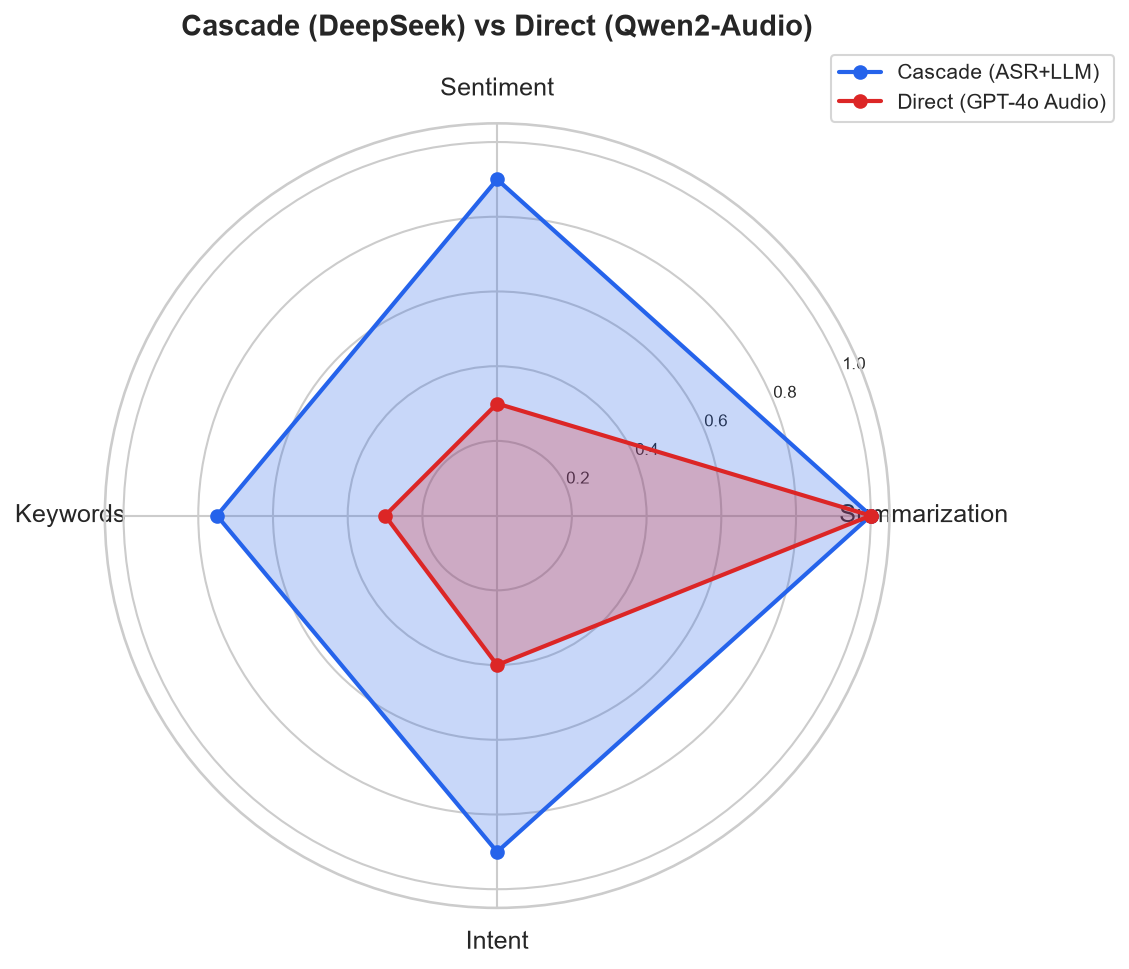
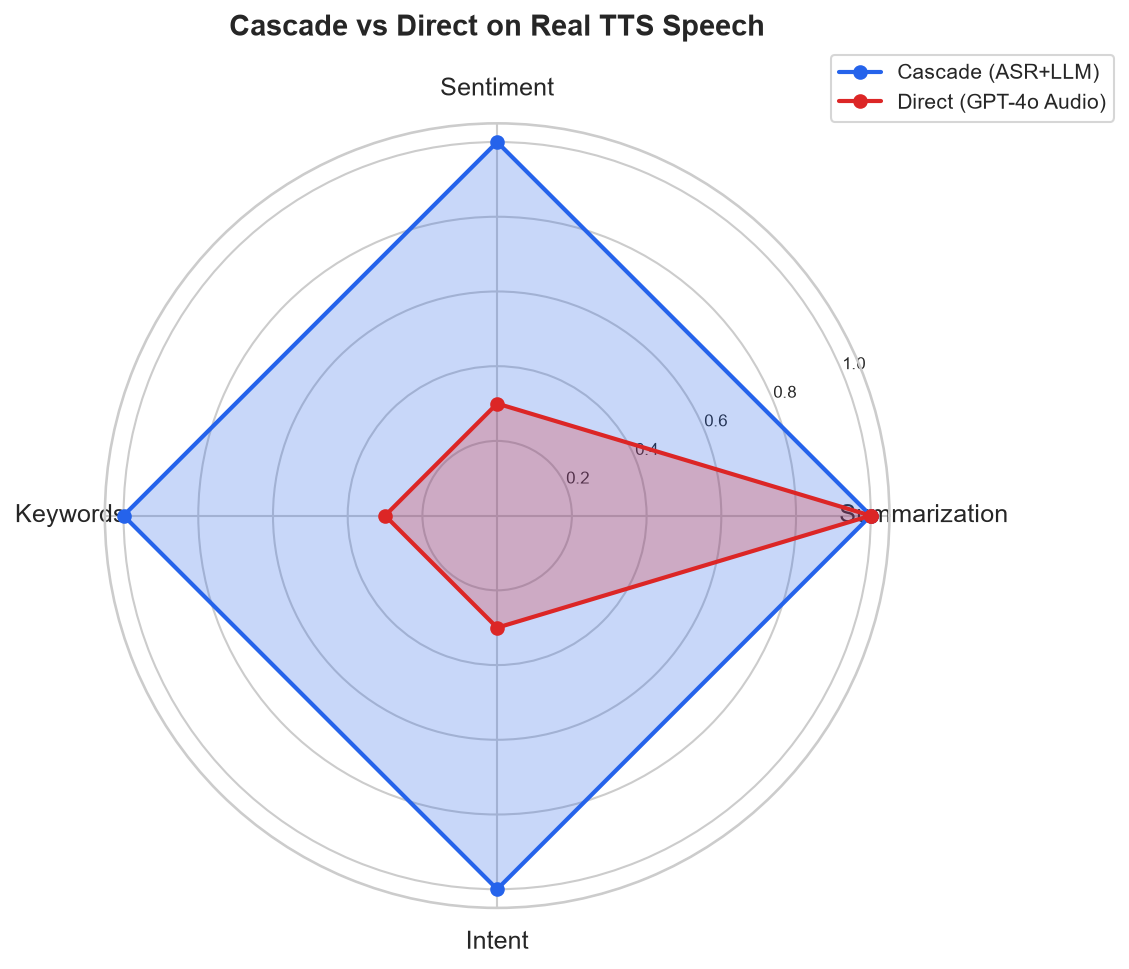
feat: TTS benchmark — Cascade 16.9s vs Direct 726s, 3 charts

diff --git a/generate_speech.py b/generate_speech.py
@@ -1,0 +1,102 @@
+"""Generate 20 realistic English speech samples using Microsoft Edge TTS (free, no VPN needed).
+
+Each sample has a known transcript → perfect for benchmark evaluation.
+"""
+import asyncio
+import json
+import numpy as np
+import soundfile as sf
+from pathlib import Path
+from src.config import PROCESSED_DIR
+
+# 20 diverse TED-style talks across 5 categories
+SAMPLES = [
+    # Technology
+    ("AI is transforming healthcare through faster diagnosis and personalized treatment plans. Machine learning models can now detect diseases from medical images with accuracy rivaling human doctors, potentially saving millions of lives each year. However, we must ensure these systems are trained on diverse data to avoid bias.", "en-US-AriaNeural", "tech_ai_healthcare"),
+    ("Quantum computing represents a fundamental shift in how we process information. Unlike classical bits that are either zero or one, quantum bits can exist in multiple states simultaneously. This property, called superposition, allows quantum computers to solve certain problems exponentially faster than any classical computer ever could.", "en-US-GuyNeural", "tech_quantum"),
+    ("The future of education lies in personalized learning powered by artificial intelligence. Every student learns differently — some are visual learners, others prefer reading, and some learn best through hands-on practice. AI tutors can adapt to each student's unique learning style in real time.", "en-GB-SoniaNeural", "tech_education"),
+    ("Blockchain technology extends far beyond cryptocurrency. Its ability to create tamper-proof, decentralized records has applications in supply chain management, digital identity verification, and even voting systems. The key innovation is trust without a central authority.", "en-US-JennyNeural", "tech_blockchain"),
+
+    # Science
+    ("Climate change is the defining challenge of our generation. Global temperatures have risen by approximately one point two degrees Celsius since pre-industrial times, and we are already seeing the effects: more frequent extreme weather events, rising sea levels, and disrupted ecosystems. The scientific consensus is clear — we must act now.", "en-GB-RyanNeural", "science_climate"),
+    ("The human brain contains approximately eighty-six billion neurons, each connected to thousands of others, forming a network of unimaginable complexity. Despite decades of research, we are only beginning to understand how this three-pound organ generates consciousness, memory, and emotion.", "en-US-ChristopherNeural", "science_brain"),
+    ("Space exploration has entered a new golden age. Private companies are developing reusable rockets that dramatically reduce the cost of reaching orbit, while NASA plans to return humans to the moon and eventually send them to Mars. The James Webb Space Telescope is already revealing secrets of the early universe.", "en-US-EricNeural", "science_space"),
+    ("CRISPR gene editing technology gives scientists the ability to modify DNA with unprecedented precision. This breakthrough has enormous potential for treating genetic diseases, developing drought-resistant crops, and even fighting cancer. But it also raises profound ethical questions about designer babies and genetic inequality.", "en-GB-LibbyNeural", "science_crispr"),
+
+    # Business
+    ("The rise of remote work has fundamentally changed how companies operate. Studies show that many workers are actually more productive when working from home, but the loss of in-person collaboration and spontaneous water-cooler conversations remains a concern. The future is likely a hybrid model that combines the best of both worlds.", "en-US-SaraNeural", "business_remote"),
+    ("Startup culture celebrates failure as a learning opportunity, but the reality is more complex. While it is true that most successful entrepreneurs failed multiple times before succeeding, the romanticization of failure ignores the real human costs: financial stress, damaged relationships, and mental health struggles.", "en-US-DavisNeural", "business_startup"),
+    ("Sustainable investing has grown from a niche strategy to a mainstream financial movement. Investors are increasingly demanding that companies disclose their environmental impact, and funds that screen for ESG criteria now manage trillions of dollars. The question is no longer whether sustainability matters, but how to measure it accurately.", "en-GB-MaisieNeural", "business_esg"),
+    ("The gig economy promised freedom and flexibility, but for many workers it has delivered insecurity and unpredictability. Ride-share drivers, food delivery couriers, and freelance workers often lack basic protections like health insurance, paid sick leave, and retirement benefits. We need new social contracts for the twenty-first century workforce.", "en-US-AnaNeural", "business_gig"),
+
+    # Society & Culture
+    ("Social media has reshaped how we form opinions and consume information. Algorithmic curation creates echo chambers where we rarely encounter views that challenge our own, while engagement optimization rewards outrage and sensationalism over thoughtful discourse. We need to understand these dynamics to protect democratic debate.", "en-US-MichelleNeural", "society_socialmedia"),
+    ("The concept of universal basic income has moved from utopian fantasy to serious policy proposal in recent years. Pilot programs in several countries have shown promising results: recipients report better mental health, more entrepreneurial activity, and improved educational outcomes. But funding such programs at national scale remains deeply challenging.", "en-GB-ThomasNeural", "society_ubi"),
+    ("Language is more than a communication tool — it shapes how we perceive reality itself. Different languages carve up the world in different ways. Some have no words for left and right, using cardinal directions instead. Others have dozens of words for snow or rice. Each language represents a unique way of understanding human experience.", "en-US-JaneNeural", "society_language"),
+    ("Urban design profoundly affects our daily well-being. Cities designed around cars produce pollution, noise, and social isolation, while walkable neighborhoods with green spaces promote physical activity, community connection, and mental health. The happiest cities in the world share common design principles we can learn from.", "en-GB-MaisieNeural", "society_urban"),
+
+    # Personal Development
+    ("The most effective leaders share a surprising trait: they listen more than they talk. Active listening builds trust, surfaces hidden problems, and makes team members feel valued. In a world that rewards loudness and quick opinions, the quiet skill of genuine listening is an underrated superpower.", "en-US-ChristopherNeural", "growth_leadership"),
+    ("Developing a growth mindset — the belief that abilities can be developed through effort — transforms how we approach challenges. People with growth mindsets see failure as feedback, not as a verdict on their worth. They embrace difficult tasks because they know struggle is the path to mastery.", "en-GB-SoniaNeural", "growth_mindset"),
+    ("Habits, not goals, determine our long-term success. Setting a goal to write a book is easy, but establishing a daily writing habit is what actually produces pages. The key is to start so small that failure is almost impossible — write just fifty words a day, and the momentum will carry you forward.", "en-US-JennyNeural", "growth_habits"),
+    ("The ability to focus deeply is becoming a competitive advantage in an age of constant distraction. Research shows that after an interruption, it takes an average of twenty-three minutes to return to the original task. Protecting blocks of uninterrupted time — what some call deep work — is essential for producing meaningful output.", "en-US-GuyNeural", "growth_focus"),
+]
+
+
+async def generate_one(text: str, voice: str, name: str, out_dir: Path) -> dict:
+    """Generate one speech sample and return its metadata."""
+    import edge_tts
+
+    mp3_path = out_dir / f"{name}.mp3"
+    communicate = edge_tts.Communicate(text, voice)
+    await communicate.save(str(mp3_path))
+
+    # Convert MP3 to WAV via soundfile (librosa backend)
+    import librosa
+    audio, sr = librosa.load(str(mp3_path), sr=16000, mono=True)
+    audio = audio.astype(np.float32)
+
+    wav_path = out_dir / f"{name}.wav"
+    sf.write(str(wav_path), audio, 16000)
+
+    # Remove MP3 to save space
+    mp3_path.unlink()
+
+    duration = len(audio) / 16000
+    return {
+        "audio_path": str(wav_path),
+        "transcript": text,
+        "speaker": voice,
+        "duration": duration,
+        "topic": name,
+    }
+
+
+async def main():
+    out_dir = PROCESSED_DIR / "tts_samples"
+    out_dir.mkdir(parents=True, exist_ok=True)
+
+    print(f"Generating {len(SAMPLES)} speech samples with Microsoft Edge TTS...")
+    print("Voices: US English (Aria, Guy, Jenny, etc.) + UK English (Sonia, Ryan, etc.)")
+    print()
+
+    entries = []
+    for i, (text, voice, name) in enumerate(SAMPLES):
+        print(f"  [{i+1:2d}/{len(SAMPLES)}] {name} ({voice})...", end=" ", flush=True)
+        entry = await generate_one(text, voice, name, out_dir)
+        entries.append(entry)
+        print(f"{entry['duration']:.1f}s")
+
+    # Save metadata
+    with open(out_dir / "index.json", "w") as f:
+        json.dump(entries, f, indent=2)
+
+    total_dur = sum(e["duration"] for e in entries)
+    print(f"\nDone! {len(entries)} samples, {total_dur:.0f}s total ({total_dur/60:.1f} min)")
+    print(f"Saved to: {out_dir}")
+    print(f"  Audio: {out_dir}/*.wav")
+    print(f"  Index: {out_dir}/index.json")
+
+
+if __name__ == "__main__":
+    asyncio.run(main())